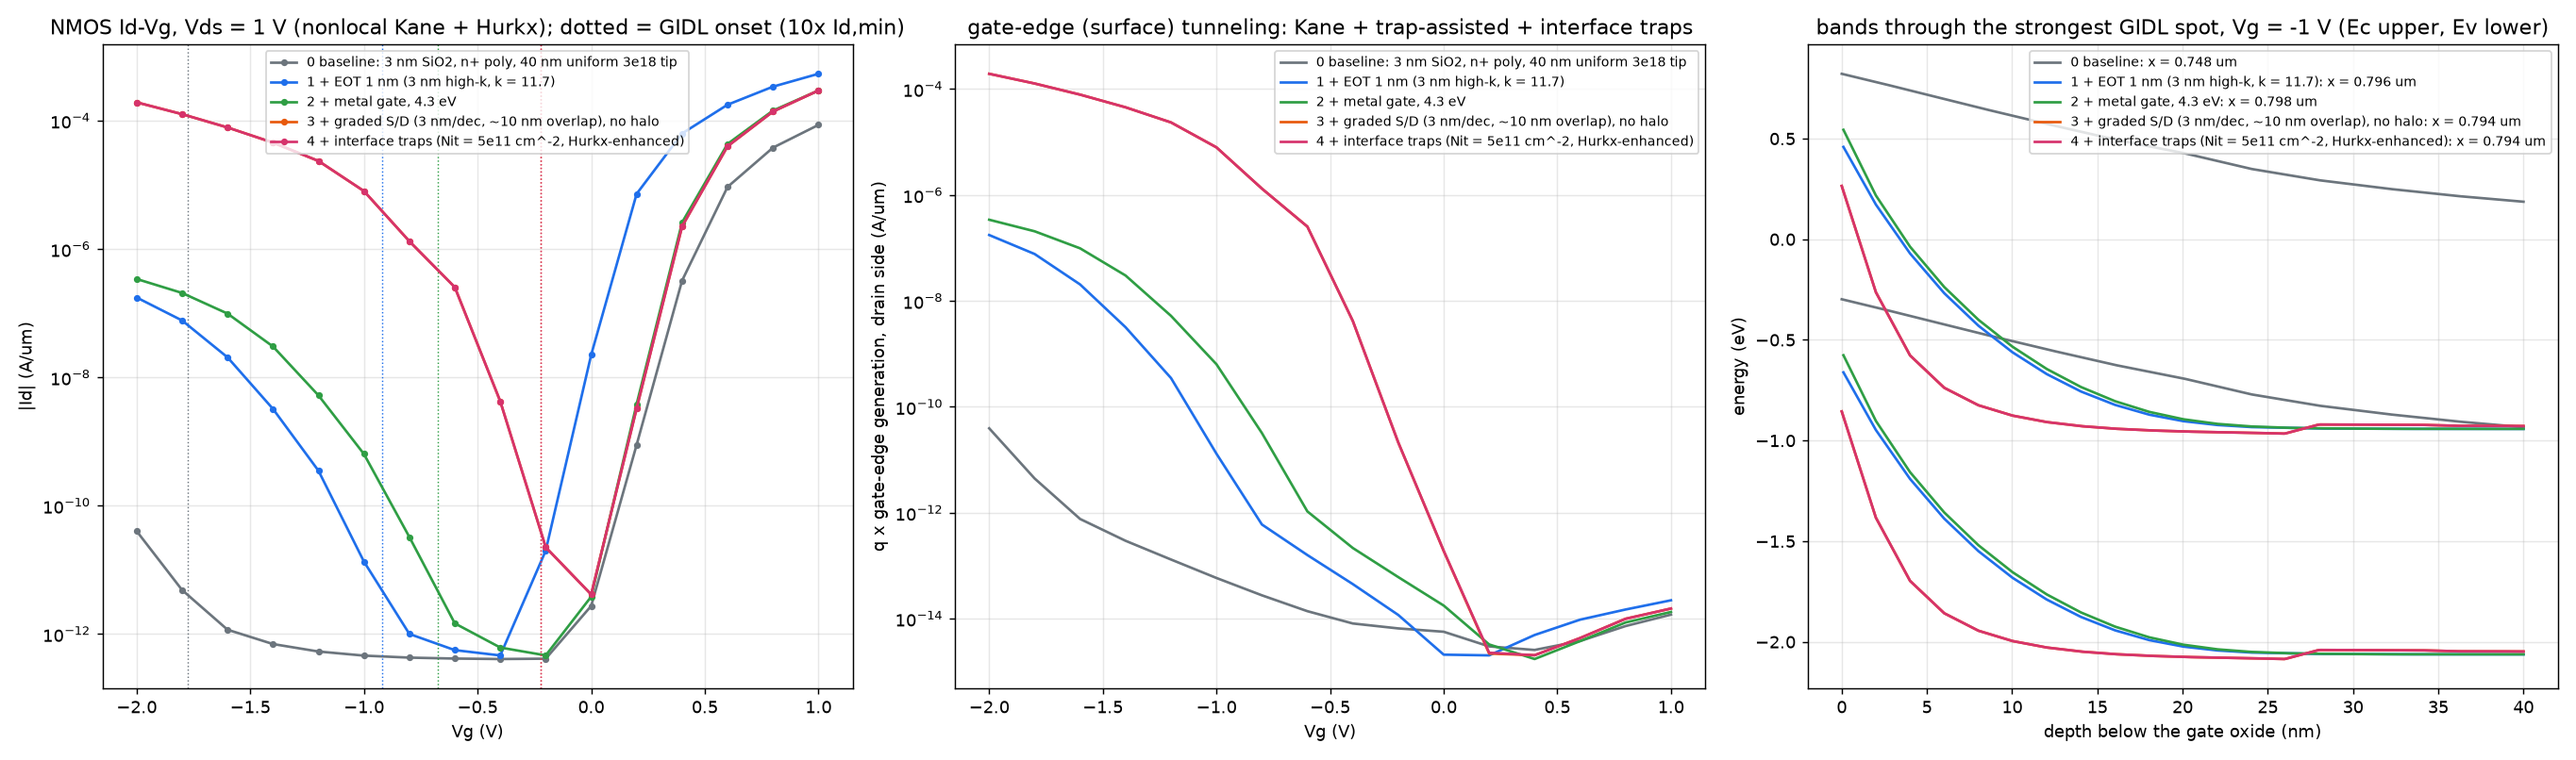
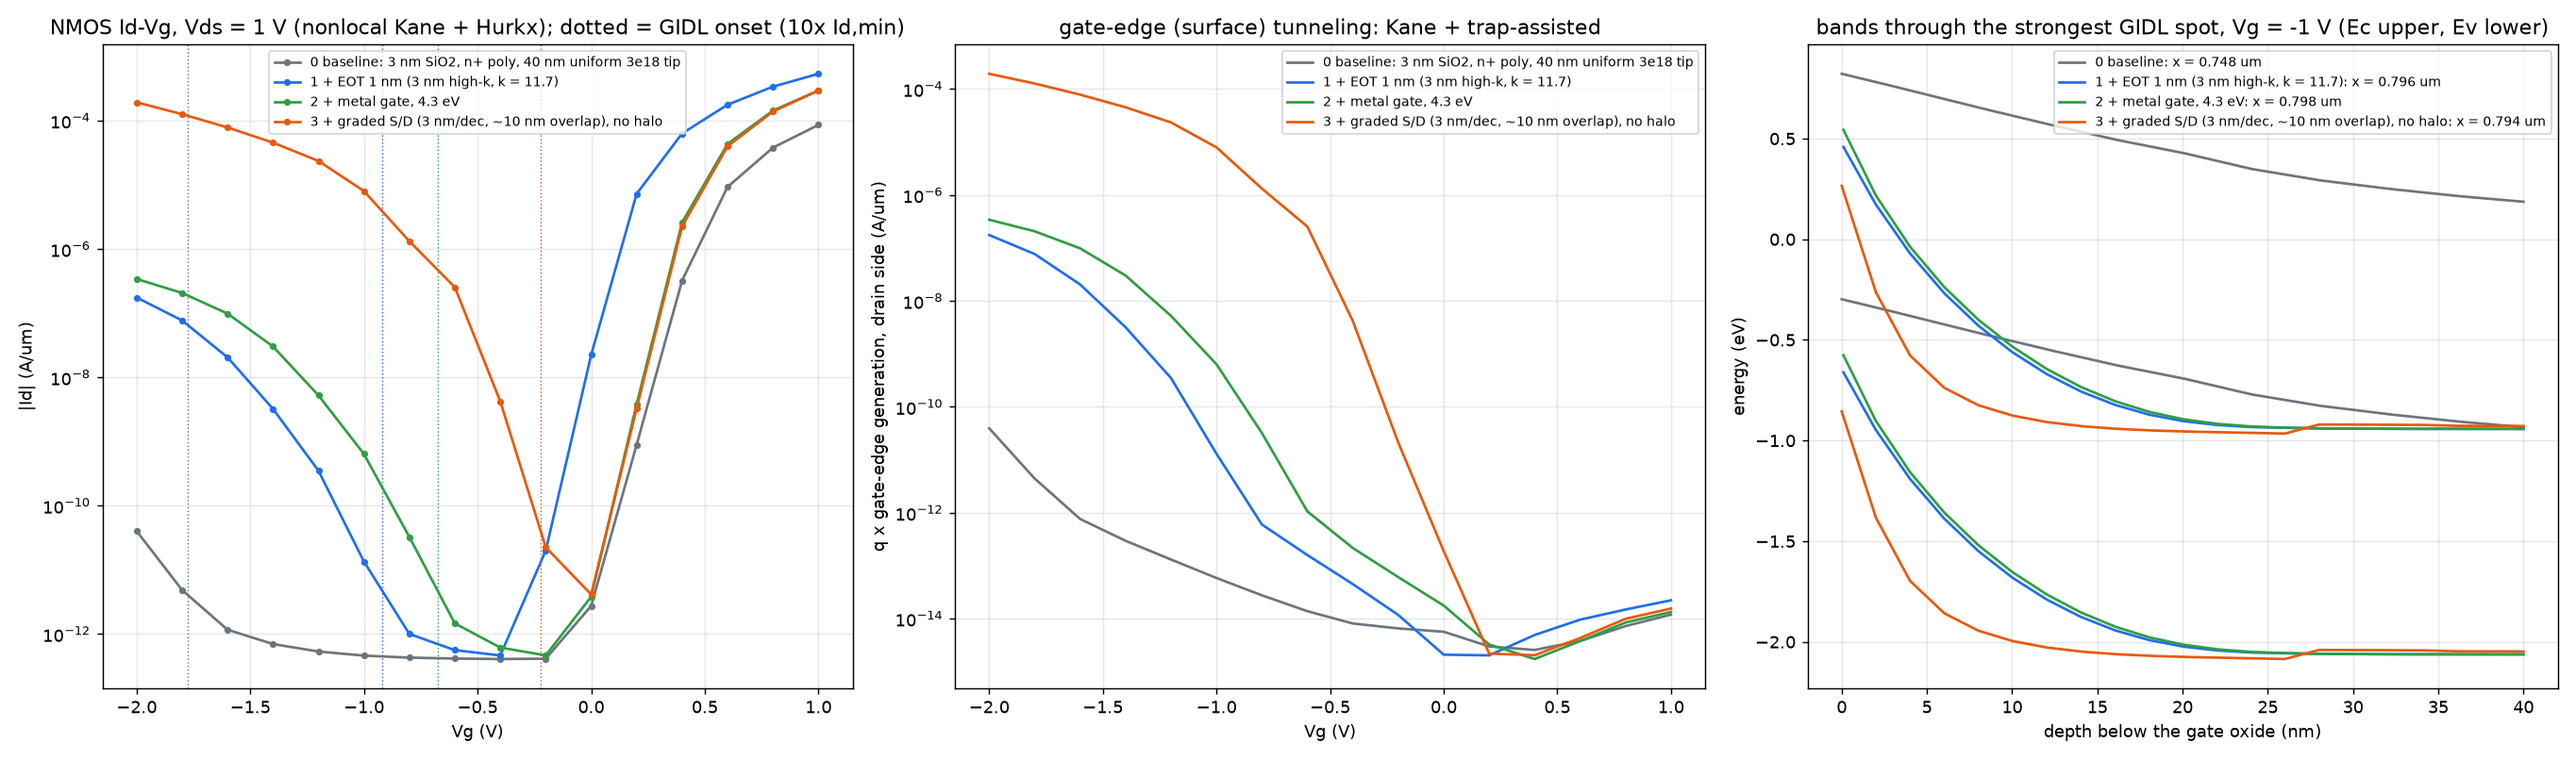
Remove interface-trap TAT from the GIDL ablation (planned future feature)
The interface-trap term had no visible effect in this example (bulk tau =
1 ns swamps it), so it is removed from btbt/ and the ablation is back to
four steps; results are unchanged. The working prototype stays in commit
22250f9 for when interface traps are needed.

diff --git a/btbt/gidl_ablation.py b/btbt/gidl_ablation.py
@@ -15,9 +15,6 @@ nonlocal tunneling model (btbt/paths2d.py: field-line Kane + Hurkx):
                   junction sits ~10 nm under the gate, and the gate edge
                   sees every doping from 1e20 down to the body's 1e18.
                   No halo (rare in FinFET/nanosheet devices).
-  4 + interface traps  N_it = 5e11 cm^-2 midgap traps at the Si/SiO2
-                  interface, with field-enhanced (Hurkx) capture: trap-
-                  assisted tunneling needing only ~Eg/2 of band bending
 
 All variants share one mesh setup (a 2 nm refine box at the drain gate edge
 is added to every variant). The variant configs are written to
@@ -68,8 +65,6 @@ def variants():
              y_range_um=[0.0, 0.14], grading_nm_per_decade=[3.0, 5.0]),
     ] + oxide
     out.append(("3 + graded S/D (3 nm/dec, ~10 nm overlap), no halo", copy.deepcopy(c)))
-    c.setdefault("btbt", {})["interface_traps"] = dict(Nit_cm2=5e11, sigma_cm2=1e-15, vth_cm_s=1e7)
-    out.append(("4 + interface traps (Nit = 5e11 cm^-2, Hurkx-enhanced)", copy.deepcopy(c)))
     return out
 
 
@@ -113,8 +108,7 @@ def main():
     rows = []
     with open(os.path.join(OUT, "gidl_ablation.csv"), "w", newline="") as f:
         w = csv.writer(f)
-        w.writerow(["variant", "Vg_V", "Id_A_per_um", "kane_surface", "tat_surface", "it_surface", "kane_bulk",
-                    "tat_bulk"])
+        w.writerow(["variant", "Vg_V", "Id_A_per_um", "kane_surface", "tat_surface", "kane_bulk", "tat_bulk"])
         for k, ((label, _), res) in enumerate(zip(vs, results)):
             pts = res["points"]
             n_ok = sum(p["res_norm"] < 1e-4 for p in pts.values())
@@ -122,10 +116,9 @@ def main():
             c = {key: np.array([pts[x][key] for x in v]) for key in next(iter(pts.values()))}
             for i, x in enumerate(v):
                 w.writerow([k, f"{x:.3f}"] + [f"{c[key][i]:.6e}" for key in
-                                              ("drain", "kane_surface", "tat_surface", "it_surface", "kane_bulk",
-                                               "tat_bulk")])
+                                              ("drain", "kane_surface", "tat_surface", "kane_bulk", "tat_bulk")])
             vo = onset(v, c["drain"])
-            gate_edge = c["kane_surface"] + c["tat_surface"] + c["it_surface"]
+            gate_edge = c["kane_surface"] + c["tat_surface"]
             rows.append((label, n_ok, len(v), vo, np.interp(-1.0, v, np.abs(c["drain"])),
                          np.interp(-2.0, v, np.abs(c["drain"])), np.min(np.abs(c["drain"]))))
             axes[0].semilogy(v, np.abs(c["drain"]), "o-", ms=3, color=COLORS[k], label=label)
@@ -151,7 +144,7 @@ def main():
     axes[0].set_title("NMOS Id-Vg, Vds = 1 V (nonlocal Kane + Hurkx); dotted = GIDL onset (10x Id,min)")
     axes[0].grid(alpha=0.3, which="both"); axes[0].legend(fontsize=7.5, loc="upper center")
     axes[1].set_xlabel("Vg (V)"); axes[1].set_ylabel("q x gate-edge generation, drain side (A/um)")
-    axes[1].set_title("gate-edge (surface) tunneling: Kane + trap-assisted + interface traps")
+    axes[1].set_title("gate-edge (surface) tunneling: Kane + trap-assisted")
     axes[1].grid(alpha=0.3, which="both"); axes[1].legend(fontsize=7.5)
     axes[2].set_xlabel("depth below the gate oxide (nm)"); axes[2].set_ylabel("energy (eV)")
     axes[2].set_title(f"bands through the strongest GIDL spot, Vg = {MAP_VG:g} V (Ec upper, Ev lower)")

diff --git a/btbt/paths2d.py b/btbt/paths2d.py
@@ -51,7 +51,7 @@ import scipy.sparse as sp
 
 from tat.tat import hurkx_gamma
 from btbt.kernel import path_rate, occupation_factor
-from btbt.tat_kernel import hurkx_enhancement, trap_generation
+from btbt.tat_kernel import hurkx_enhancement
 
 F_START_KANE = 5.0e4     # V/cm - Kane start threshold
 F_START_TAT = 5.0e4      # V/cm - below this Gamma uses the local field (Gamma <~ 1 there and
@@ -165,13 +165,7 @@ class NonlocalTunneling2D:
     use the object as the Newton solver's generation hook."""
 
     def __init__(self, geom, mat, ni_arr, cv_semi, kane=None, hurkx=None, surface_depth_cm=2.0e-6,
-                 x_mid_cm=None, interface_traps=None):
-        """interface_traps: optional dict (Nit_cm2, sigma_cm2, vth_cm_s) - midgap
-        traps AT the Si/SiO2 interface: surface SRH with s0 = sigma*vth*Nit and
-        each carrier's capture field-enhanced by the same nonlocal Hurkx
-        Gamma_n/Gamma_p as the bulk traps at that node (trap-assisted
-        tunneling through interface traps, which needs only ~Eg/2 of band
-        bending). None = no interface traps."""
+                 x_mid_cm=None):
         self.geom, self.mat, self.ni, self.cv = geom, mat, ni_arr, cv_semi
         self.kane, self.hurkx = kane, hurkx
         self.Eg, self.Vt = mat.Eg_eV, mat.Vt
@@ -187,11 +181,6 @@ class NonlocalTunneling2D:
         self.Gam_n = np.zeros(N)
         self.Gam_p = np.zeros(N)
         self.kane_info = None
-        self.s0 = 0.0
-        if interface_traps:
-            it = interface_traps
-            self.s0 = float(it.get("sigma_cm2", 1e-15)) * float(it.get("vth_cm_s", 1e7)) * float(it["Nit_cm2"])
-        self.if_w = np.where(self.free & (cv_semi > 0), geom.if_len / np.where(cv_semi > 0, cv_semi, 1.0), 0.0)
 
     # --- frozen (lagged) part ---
     def prepare(self, psi, phin, phip, record=None):
@@ -263,15 +252,6 @@ class NonlocalTunneling2D:
         Vt, dEi = self.Vt, self.geom.dEi
         return self.ni * np.exp((psi + dEi - phin) / Vt), self.ni * np.exp((phip - psi - dEi) / Vt)
 
-    def it_rate(self, psi, phin, phip):
-        """Interface-trap generation per unit volume at interface nodes
-        (cm^-3 s^-1, 0 elsewhere or without interface traps)."""
-        if self.s0 <= 0 or self.hurkx is None:
-            return np.zeros(len(psi))
-        n, p = self._np(psi, phin, phip)
-        G, _, _ = trap_generation(n, p, self.ni, 1.0 / self.s0, 1.0 / self.s0, self.Gam_n, self.Gam_p)
-        return G * self.if_w
-
     def tat_rate(self, psi, phin, phip):
         n, p = self._np(psi, phin, phip)
         return np.where(self.free, hurkx_enhancement(n, p, self.ni, self.mat.tau_n, self.mat.tau_p,
@@ -285,11 +265,6 @@ class NonlocalTunneling2D:
         n, p = self._np(psi, phin, phip)
         dG, d_dn, d_dp, _, _ = hurkx_enhancement(n, p, self.ni, self.mat.tau_n, self.mat.tau_p,
                                                  self.Gam_n, self.Gam_p)
-        if self.s0 > 0:
-            Gs, ds_dn, ds_dp = trap_generation(n, p, self.ni, 1.0 / self.s0, 1.0 / self.s0, self.Gam_n, self.Gam_p)
-            dG = dG + Gs * self.if_w
-            d_dn = d_dn + ds_dn * self.if_w
-            d_dp = d_dp + ds_dp * self.if_w
         f = self.free
         dG = np.where(f, dG, 0.0)
         Gn += dG

diff --git a/btbt/main_btbt2d_sweep.py b/btbt/main_btbt2d_sweep.py
@@ -63,8 +63,7 @@ COLORS = {"none": "#6c757d", "local_1d": "#e8590c", "local": "#d6336c", "nonloca
 COMP_STYLE = {"kane_surface": ("#1f6feb", "-", "Kane BTBT, surface (GIDL)"),
               "tat_surface": ("#1f6feb", "--", "trap-assisted, surface (GIDL)"),
               "kane_bulk": ("#2f9e44", "-", "Kane BTBT, bulk junction"),
-              "tat_bulk": ("#2f9e44", "--", "trap-assisted, bulk junction"),
-              "it_surface": ("#e8590c", "-.", "interface-trap-assisted (GIDL)")}
+              "tat_bulk": ("#2f9e44", "--", "trap-assisted, bulk junction")}
 
 
 def load_config(path):
@@ -109,8 +108,7 @@ def make_model(ctx, name):
         return LocalTunneling2D(ctx["geom"], ctx["mat"], ctx["ni"], kane=kane_uncapped, hurkx=hurkx)
     if name == "nonlocal":
         return NonlocalTunneling2D(ctx["geom"], ctx["mat"], ctx["ni"], ctx["cv"], kane=kane_uncapped, hurkx=hurkx,
-                                   surface_depth_cm=SURFACE_DEPTH, x_mid_cm=ctx["x_mid"],
-                                   interface_traps=(ctx["cfg"].get("btbt") or {}).get("interface_traps"))
+                                   surface_depth_cm=SURFACE_DEPTH, x_mid_cm=ctx["x_mid"])
     raise ValueError(name)
 
 
@@ -212,7 +210,7 @@ def components(ctx, model, r):
     P = g.points
     drain = P[:, 0] > ctx["x_mid"]
     surf = P[:, 1] < SURFACE_DEPTH
-    out = dict(kane_surface=0.0, kane_bulk=0.0, tat_surface=0.0, tat_bulk=0.0, it_surface=0.0)
+    out = dict(kane_surface=0.0, kane_bulk=0.0, tat_surface=0.0, tat_bulk=0.0)
     if model is None:
         return out
     if isinstance(model, LocalTunneling2D):
@@ -229,7 +227,6 @@ def components(ctx, model, r):
             out["kane_surface"] = float(Q * np.sum(info["pair"][ds & info["surface"]]) * 1e-4)
             out["kane_bulk"] = float(Q * np.sum(info["pair"][ds & ~info["surface"]]) * 1e-4)
         Gt = model.tat_rate(r["psi"], r["phin"], r["phip"])
-        out["it_surface"] = integrate(model.it_rate(r["psi"], r["phin"], r["phip"]), cv, drain)
     out["tat_surface"] = integrate(Gt, cv, drain & surf)
     out["tat_bulk"] = integrate(Gt, cv, drain & ~surf)
     return out
@@ -599,11 +596,10 @@ def main():
         rs = [r for r in results if r["task"]["kind"] == kind]
         with open(os.path.join(out_dir, fname + ".csv"), "w", newline="") as f:
             w = csv.writer(f)
-            cols = ["drain", "body", "source", "kane_surface", "kane_bulk", "tat_surface", "tat_bulk", "it_surface",
-                    "iters",
+            cols = ["drain", "body", "source", "kane_surface", "kane_bulk", "tat_surface", "tat_bulk", "iters",
                     "outer", "res_norm"]
             w.writerow(["model", "bias_V"] + [c + ("_A_per_um" if c in ("drain", "body", "source") or
-                                                   c.startswith(("kane", "tat", "it_")) else "") for c in cols])
+                                                   c.startswith(("kane", "tat")) else "") for c in cols])
             for r in rs:
                 for p, d in sorted(r["points"].items()):
                     w.writerow([r["task"]["model"], f"{p:.4f}"] + [f"{d[c]:.6e}" if isinstance(d[c], float) else d[c]

diff --git a/btbt/tat_kernel.py b/btbt/tat_kernel.py
@@ -25,23 +25,6 @@ solver's SRH.
 import numpy as np
 
 
-def trap_generation(n, p, ni, tau_n, tau_p, Gam_n, Gam_p):
-    """Full field-enhanced trap generation G = -R (not just the enhancement)
-    and dG/dn, dG/dp, with R = (np - ni^2) / (tau_p/(1+Gp)(n+ni) +
-    tau_n/(1+Gn)(p+ni)). With tau = 1/s (s: surface recombination velocity,
-    cm/s) this is a SURFACE rate in cm^-2 s^-1 - the interface-trap term of
-    btbt/paths2d.py. Zero wherever ni == 0."""
-    ok = ni > 0
-    num = n * p - ni ** 2
-    tpe, tne = tau_p / (1.0 + Gam_p), tau_n / (1.0 + Gam_n)
-    den = np.where(ok, tpe * (n + ni) + tne * (p + ni), 1.0)
-    G = -num / den
-    d_dn = -(p * den - num * tpe) / den ** 2
-    d_dp = -(n * den - num * tne) / den ** 2
-    z = lambda a: np.where(ok, a, 0.0)
-    return z(G), z(d_dn), z(d_dp)
-
-
 def hurkx_enhancement(n, p, ni, tau_n, tau_p, Gam_n, Gam_p):
     """(dG, d/dn, d/dp, d/dGam_n, d/dGam_p) of (1). Zero wherever ni == 0
     (insulator nodes)."""

diff --git a/btbt/geom2d.py b/btbt/geom2d.py
@@ -54,19 +54,6 @@ class TriGeom:
         self.is_semi_node = node_area > 0
         if mesh.ni_arr is not None:
             self.is_semi_node &= mesh.ni_arr > 0
-        # Si/SiO2 interface length per semiconductor node (cm): half of every
-        # oxide-triangle edge whose two ends are semiconductor nodes (each
-        # interface edge borders exactly one oxide triangle)
-        if_len = np.zeros(N)
-        for t in np.flatnonzero(~self.tri_semi):
-            for a, b in ((0, 1), (1, 2), (2, 0)):
-                i, j = T[t, a], T[t, b]
-                if self.is_semi_node[i] and self.is_semi_node[j]:
-                    L = np.hypot(*(P[i] - P[j]))
-                    if_len[i] += 0.5 * L
-                    if_len[j] += 0.5 * L
-        self.if_len = if_len
-
         bc = np.array(mesh.boundary_bc_type)
         is_contact = np.zeros(N, dtype=bool)
         is_contact[mesh.boundary_point_index[np.char.startswith(bc.astype(str), "contact:")]] = True

diff --git a/DEVELOPMENT_LOG.md b/DEVELOPMENT_LOG.md
@@ -3681,16 +3681,19 @@ consistent with the simulated onset near Vg = -1.4 V at Vds = 1 V.
   `grading_nm_per_decade: [gx, gy]`): full concentration inside the box,
   one decade of fall-off per gx/gy outside it, ADDED to the net doping
   (compensation) instead of replacing it.
-- Interface-trap trap-assisted tunneling in `btbt/paths2d.py`
-  (`interface_traps: {Nit_cm2, sigma_cm2, vth_cm_s}` under `btbt:`): surface
-  SRH at the Si/SiO2 interface nodes, with s0 = sigma*vth*Nit and each
-  carrier's capture enhanced by the same nonlocal Hurkx Gamma as the bulk
-  traps (`btbt/tat_kernel.py::trap_generation`, interface length per node
-  in `TriGeom.if_len`). The Jacobian is FD-checked. It is reported as
-  component `it_surface`.
+- Interface-trap trap-assisted tunneling was prototyped as a fifth step
+  (surface SRH at Si/SiO2 interface nodes, with s0 = sigma*vth*Nit and
+  capture enhanced by the nonlocal Hurkx Gamma; Jacobian FD-checked). It
+  was **then removed** at the user's request: at Nit = 5e11 cm^-2 it had
+  no visible effect (about 2e-14 A/um of surface generation, against a
+  4e-12 floor set by the bulk tau = 1 ns traps). It is a planned future
+  feature, not a rejected one. The working prototype is in commit
+  `22250f9`: `btbt/tat_kernel.py::trap_generation`, `TriGeom.if_len`, and
+  the `interface_traps` option / `it_rate` in `btbt/paths2d.py`. When it
+  comes back, pair it with a realistic (about 1 us) bulk lifetime.
 - `btbt/gidl_ablation.py` writes cumulative variant configs to
   `out/btbt/gidl_ablation/` and runs them in parallel (about 90 s for all
-  five). No halo, per the user (rare in FinFET/nanosheet devices).
+  four). No halo, per the user (rare in FinFET/nanosheet devices).
 
 **Results (NMOS Id-Vg, Vds = 1 V; onset = Vg where |Id| reaches 10x its
 minimum):**
@@ -3701,17 +3704,12 @@ minimum):**
 | 1 + EOT 1 nm (3 nm layer, k = 11.7) | -0.92 V | 1.4e-11 |
 | 2 + metal gate 4.3 eV | -0.67 V | 6.4e-10 |
 | 3 + graded S/D (3 nm/dec, ~10 nm overlap) | -0.22 V | 8.0e-6 |
-| 4 + interface traps, Nit = 5e11 cm^-2 | -0.22 V | 8.0e-6 (no change) |
 
 - EOT is the largest single shift (about 0.9 V). The metal gate adds the
-  expected ~0.25 V.
+  expected ~0.25 V. (The interface-trap step added nothing; see above.)
 - The graded drain moves onset to just below threshold: the gate edge now
   sees the 1e19-1e20 part of the gradient, where Kane paths are short.
-- With bulk tau = 1 ns (project default), the interface traps at
-  5e11 cm^-2 are invisible (about 2e-14 A/um of surface generation, against
-  a 4e-12 floor); with realistic bulk lifetimes they would matter relatively
-  more.
-- Magnitude caveat: variants 3-4 reach 1.9e-4 A/um at Vg = -2 V. That is
+- Magnitude caveat: variant 3 reaches 1.9e-4 A/um at Vg = -2 V. That is
   Vdg = 3 V across EOT 1 nm (about 30 MV/cm, beyond breakdown), outside any
   real operating range. Around Vdg = 1.5-1.8 V the values are 1e-9-1e-7
   A/um. Absolute GIDL also depends on the Kane A/B calibration (the FLOOXS

diff --git a/README.md b/README.md
@@ -50,7 +50,7 @@ python3 -m btbt.main_btbt2d_sweep                               # NMOS Id-Vg (GI
 python3 -m btbt.main_btbt2d_sweep configs/input_pmos_2d_btbt.yaml --models none,nonlocal
 python3 -m btbt.main_btbt2d_sweep configs/input_pmos_2d_btbt_sige.yaml --models none,nonlocal
 python3 -m btbt.compare_pmos_sige                               # PMOS Si vs strained SiGe S/D
-python3 -m btbt.gidl_ablation                                   # GIDL onset: EOT, metal gate, graded S/D, interface traps
+python3 -m btbt.gidl_ablation                                   # GIDL onset: EOT, metal gate, graded S/D
 ```
 
 Outputs go to `out/btbt/`, including field-line / band-diagram figures
